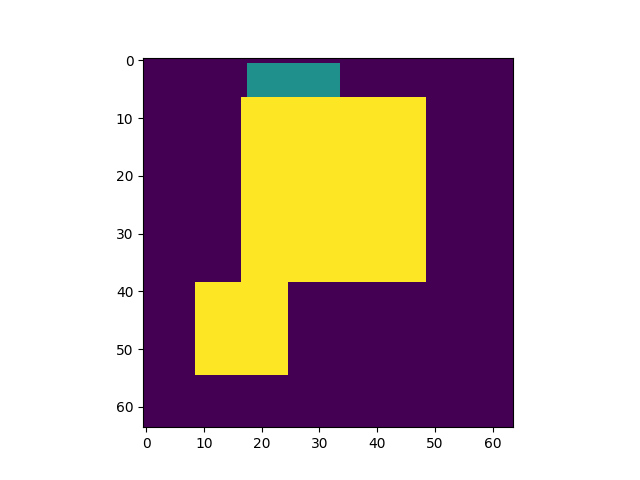
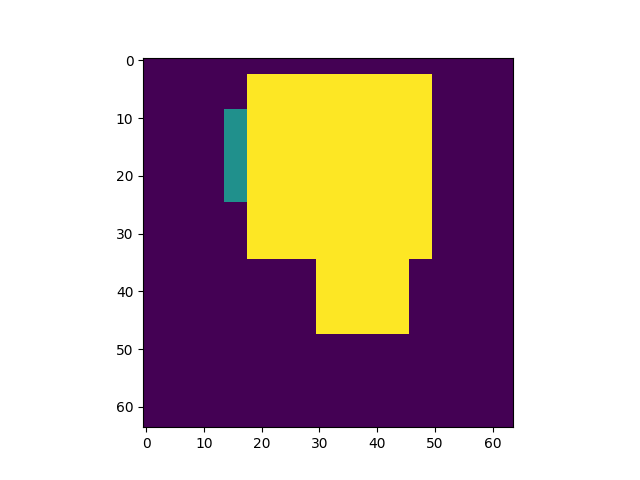
Train model, run prediction

Changed region(s): [[0.2812, 0.125, 0.6875, 0.7812]]

diff --git a/src/fit.py b/src/fit.py
@@ -1,4 +1,5 @@
 import matplotlib.pyplot as plt
+from tensorflow.keras import callbacks
 
 from generator import get_generator
 from model import get_model
@@ -20,6 +21,26 @@ def main(image_shape=(64, 64, 1), n_classes=3, n_blocks=4, batch_size=20):
 
     plt.imshow(Y[0, :, :, :].argmax(axis=-1))
     plt.savefig("example_Y.png")
+    plt.close()
+
+    history = model.fit(
+        x=generator,
+        steps_per_epoch=50,
+        epochs=10,
+        verbose=True,
+        callbacks=[
+            callbacks.EarlyStopping(
+                patience=20, monitor="val_loss", restore_best_weights=True, verbose=True
+            )
+        ],
+        validation_data=generator,  # We use the same generator for training and validation
+        validation_steps=50,
+    )
+
+    predictions = model.predict(X)
+
+    plt.imshow(predictions[0, :, :, :].argmax(axis=-1))
+    plt.savefig("example_predictions.png")
     plt.close()
 
 
